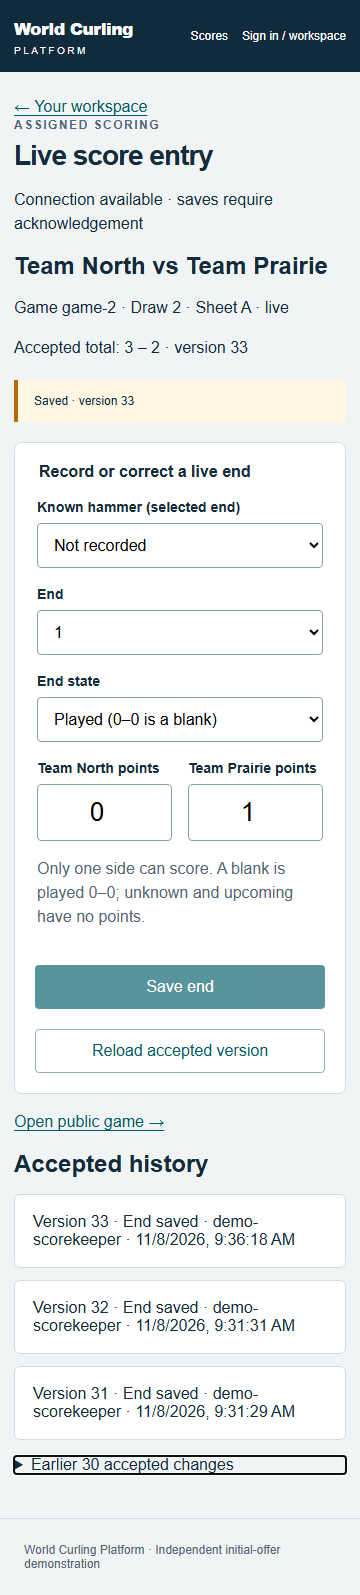
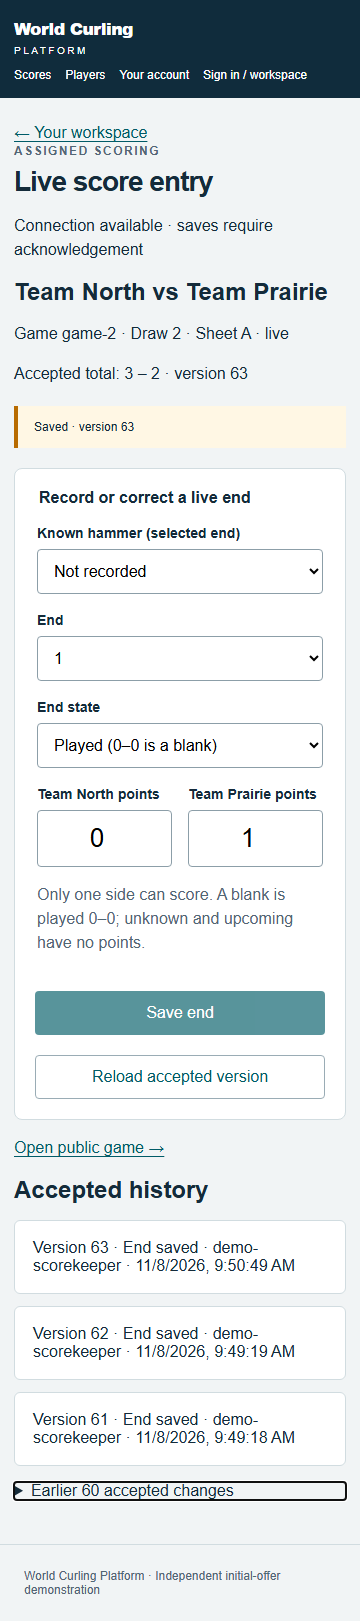
WCP-002: verify combined profiles and scoring setup and suites

Changed region(s): [[0.0, 0.0, 1.0, 0.9831]]

diff --git a/scripts/verify-scoring-seed.ts b/scripts/verify-scoring-seed.ts
@@ -1,0 +1,40 @@
+import assert from "node:assert/strict";
+import { pool } from "../src/db";
+import { publicEvent } from "../src/modules/public/scores";
+import { scoringGame, saveScoring } from "../src/modules/scoring/commands";
+import { randomUUID } from "node:crypto";
+try {
+  const edited =
+    process.argv.includes("--edited") || process.argv.includes("--edit");
+  if (process.argv.includes("--edit")) {
+    const current = await scoringGame("demo-scorekeeper", "game-2");
+    await saveScoring("demo-scorekeeper", "game-2", {
+      requestId: randomUUID(),
+      expectedVersion: current.version,
+      action: "end",
+      endNumber: 1,
+      end: { state: "played", a: 4, b: 0 },
+      hammer: "a",
+    });
+  }
+  const event = await publicEvent("prairie-2026");
+  const game = event!.games.find((g) => g.id === "game-2")!;
+  assert.equal(game.totalA, edited ? 7 : 3);
+  assert.equal(game.totalB, edited ? 1 : 2);
+  assert.equal(game.hammer, "b");
+  assert.equal(game.hammerEnd, 5);
+  assert.equal(game.endHammer[4], "b");
+  const assigned = await scoringGame("demo-scorekeeper", "game-2");
+  assert.equal(assigned.endHammer[4], "b");
+  assert.equal(assigned.hammerEnd, 5);
+  if (edited) {
+    assert.deepEqual(assigned.ends[0], { state: "played", a: 4, b: 0 });
+    assert.equal(assigned.endHammer[0], "a");
+    assert.equal(assigned.version, 1);
+  }
+  console.log(
+    "Fresh demo seed exposes the same known end-five hammer through public and assigned reads",
+  );
+} finally {
+  await pool.end();
+}

diff --git a/scripts/seed.ts b/scripts/seed.ts
@@ -86,6 +86,14 @@ try {
         );
       }
   }
+  // Migrations run before the first seed. Initialize its explicitly known
+  // current-end hammer once; repeated seeding must preserve later commands.
+  await client.query(
+    "UPDATE game g SET hammer_end=coalesce((SELECT max(end_number)+1 FROM game_end_score s WHERE s.game_id=g.id AND s.state IN ('played','unknown')),1) WHERE g.id IN ('game-2','game-3') AND g.state='live' AND g.version=0 AND g.hammer_end IS NULL",
+  );
+  await client.query(
+    "INSERT INTO game_end_hammer(game_id,end_number,hammer) SELECT id,hammer_end,hammer FROM game WHERE id IN ('game-2','game-3') AND version=0 AND hammer_end IS NOT NULL AND hammer IS NOT NULL ON CONFLICT DO NOTHING",
+  );
   await client.query(
     "INSERT INTO auth_user(id,name,email,email_verified) VALUES('demo-ungranted','Unassigned test persona','ungranted@demo.invalid',true) ON CONFLICT DO NOTHING",
   );

diff --git a/tests/browser/scoring.spec.ts b/tests/browser/scoring.spec.ts
@@ -6,8 +6,11 @@ import {
 } from "@playwright/test";
 import AxeBuilder from "@axe-core/playwright";
 import { randomUUID } from "node:crypto";
-import { pool } from "../../src/db";
+import pg from "pg";
 import "dotenv/config";
+// Each browser suite owns its fixture connection lifecycle. Other files may
+// close the application module's pool in the same Playwright worker.
+const pool = new pg.Pool({ connectionString: process.env.DATABASE_URL });
 let session: BrowserContext;
 test.beforeAll(async ({ browser }) => {
   session = await browser.newContext();

diff --git a/docs/verification/WCP-002.md b/docs/verification/WCP-002.md
@@ -2,6 +2,8 @@
 
 Implemented and locally verified on 2026-11-08 on `ticket/WCP-002`, worktree `C:/Users/brthi/Projects/world-curling-platform-2/.worktrees/WCP-002`. The coordinator owns independent review, integration, push and tracker closure. First checkpoint: `27b1ca717c9ae2b8384b45d629dece510260d298`. Latest integration tip `9fa852a4a6d5c580d5d86835c0dd2c1611fa7c9f` was merged before the final production build and acceptance run.
 
+The initial scoring acceptance run is preserved below. The final **verified WCP-012 integration refresh** at the end supersedes its suite counts and records the current merged candidate, additional seed regression and refreshed screenshots.
+
 ## Delivered boundary
 
 An assigned scorekeeper can start a scheduled four-player game with resolved opponents, enter/correct a live end, record known/unknown hammer for that selected end, and see persisted public changes. The HTTP adapter and editor share the application command. Game locking, current grant/source checks, expected version, normalized command receipts and transactional before/after audit protect accepted state. Duplicate delivery returns the original receipt; mismatched identifier reuse and stale versions cannot overwrite scores.
@@ -93,3 +95,36 @@ Final production screenshots were copied from Playwright results and visually in
 - [Accepted response lost](assets/WCP-002/accepted-response-lost.png)
 
 The final local Playwright report remains at this worktree's ignored `playwright-report/index.html`; durable screenshots above survive worktree cleanup. The local production app is available on port 3102 for coordinator review.
+
+## Verified WCP-012 integration refresh
+
+Merged independently accepted integration tip `85ffe6f` in `ede104d`, then current metadata-only tip `59962b56664cbb05d0260677374e599da1fea620` in `55bcc87`. No unreviewed sibling branch was merged. The package-script conflict retained **all three domain test files and all four API test files**, with sequential API execution and the inherited `account:mail` command. Automatic shared workspace/style merges preserve both account/profile links and live scoring entry links.
+
+Configured `ACCOUNT_EMAIL_ADAPTER=local-file` only in this worktree's ignored `.env`. Applied `0012_player_claims_and_profile_history.sql` to **wcp002**, then ran the merged repeatable seed. The local mail inbox remains private/ignored. Actual combined checks against the production app on 3102:
+
+| Command | Observed combined result |
+|---|---|
+| `npm run test:coverage` | **10 tests passed**, covering all baseline, profile and scoring domain files. Profile module 100% lines/branches/functions; existing scoring/save-state coverage unchanged. |
+| `npm run build` | Passed optimized compilation, TypeScript and all combined account/profile/scoring routes. Later edits affect only seed/probe/test code; types were rerun afterward. |
+| `npm run typecheck` | Passed after the merge and again after the fixture-pool/seed regression fixes. |
+| `npm run test:api` | **17 tests passed in 68.6s**, including real account verification/recovery, claims/profile scope/concurrency, and every scoring subtest. The profile helper actually waited its 61-second throttle window; authentication protection remained unchanged. |
+| `npm run test:browser` | **17 tests passed in 37.6s** on the corrected final combined run, including all profile and scoring workflows plus inherited checks. |
+| `npm run worker:probe` | Real PostgreSQL-backed job and output passed after the integration. |
+| `npm audit` | Zero vulnerabilities. |
+
+The first combined browser run passed 16/17 and exposed a test lifecycle collision: the profile suite closes the imported application pool in `afterAll`, and Playwright reused that worker for the scoring suite's scheduled fixture. The scoring browser suite now owns a separate real PostgreSQL fixture pool and closes only that pool. The complete combined rerun passed; no persistence substitute or skipped test was introduced.
+
+Fresh setup review also found that the end-hammer backfill runs before seed records exist in a fresh database. A separate WCP-002-owned database, **wcp002_seedcheck**, reproduced `hammerEnd: null` instead of independently expected **5** after migrate → seed. The seed now initializes its original explicit end-five hammer only for `version=0`, with conflict-safe insertion, and preserves all later scoring commands. No applied migration was edited.
+
+Actual fresh-database regression commands used a process-local `DATABASE_URL=postgresql://wcp_local@127.0.0.1:55431/wcp002_seedcheck` (the ignored app environment remains wcp002):
+
+```powershell
+createdb.exe -h 127.0.0.1 -p 55431 -U wcp_local wcp002_seedcheck
+npm run db:migrate
+npm run db:seed
+npx tsx scripts/verify-scoring-seed.ts
+```
+
+The initial probe failed with `null !== 5`. After the seed fix, `db:seed` → probe passed twice through both public and authorized scoring read interfaces: totals **3–2**, current hammer **b**, end **5**, and matching end-specific fact. Then `npx tsx scripts/verify-scoring-seed.ts --edit` submitted a real authorized end-one correction, `npm run db:seed` ran again, and `npx tsx scripts/verify-scoring-seed.ts --edited` passed independent totals **7–1**, version **1**, end-one hammer **a**, and preserved current end-five hammer **b**. These probe modes are for an isolated fresh fictional fixture; `--edit` intentionally changes its end one. The main wcp002 seed was also rerun successfully without overwriting its later accepted scores/history.
+
+All six WCP-002 durable screenshots were refreshed from the final combined production browser run and visually inspected again, including the merged mobile navigation and unchanged usable scoring controls. The profile suite's random-name screenshots were restored to their existing reviewed WCP-012 assets after the run; no private account/claim/mail artifacts were committed. No local acceptance blocker remains, and tracker status/closure remains with the coordinator.
